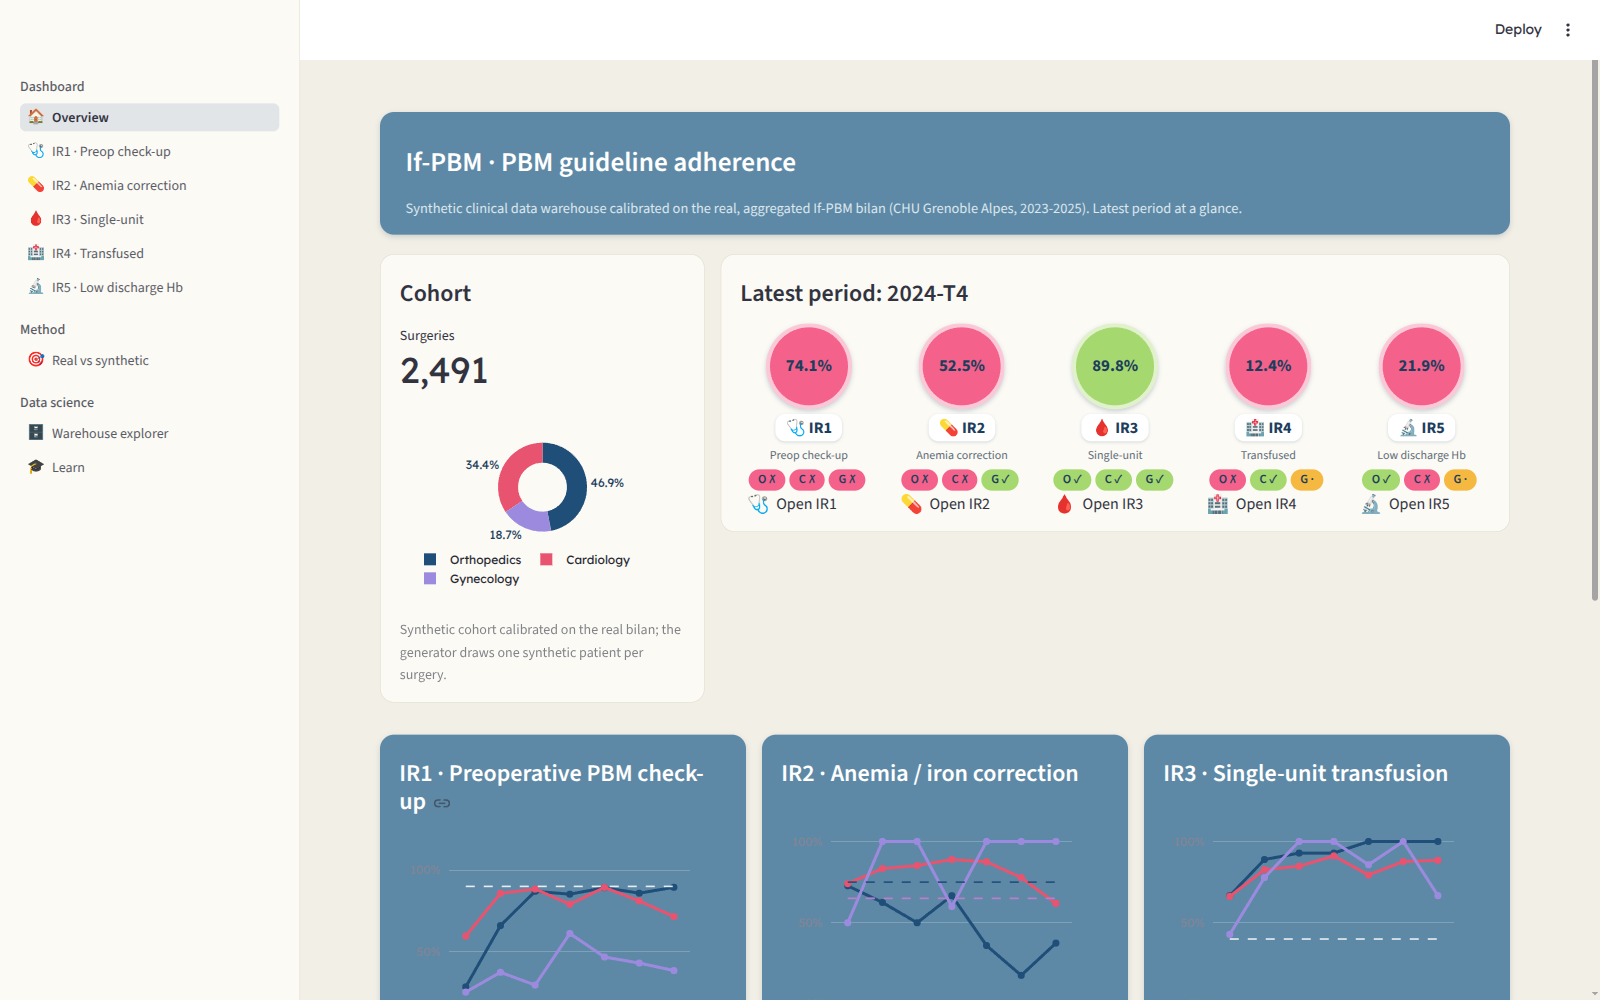
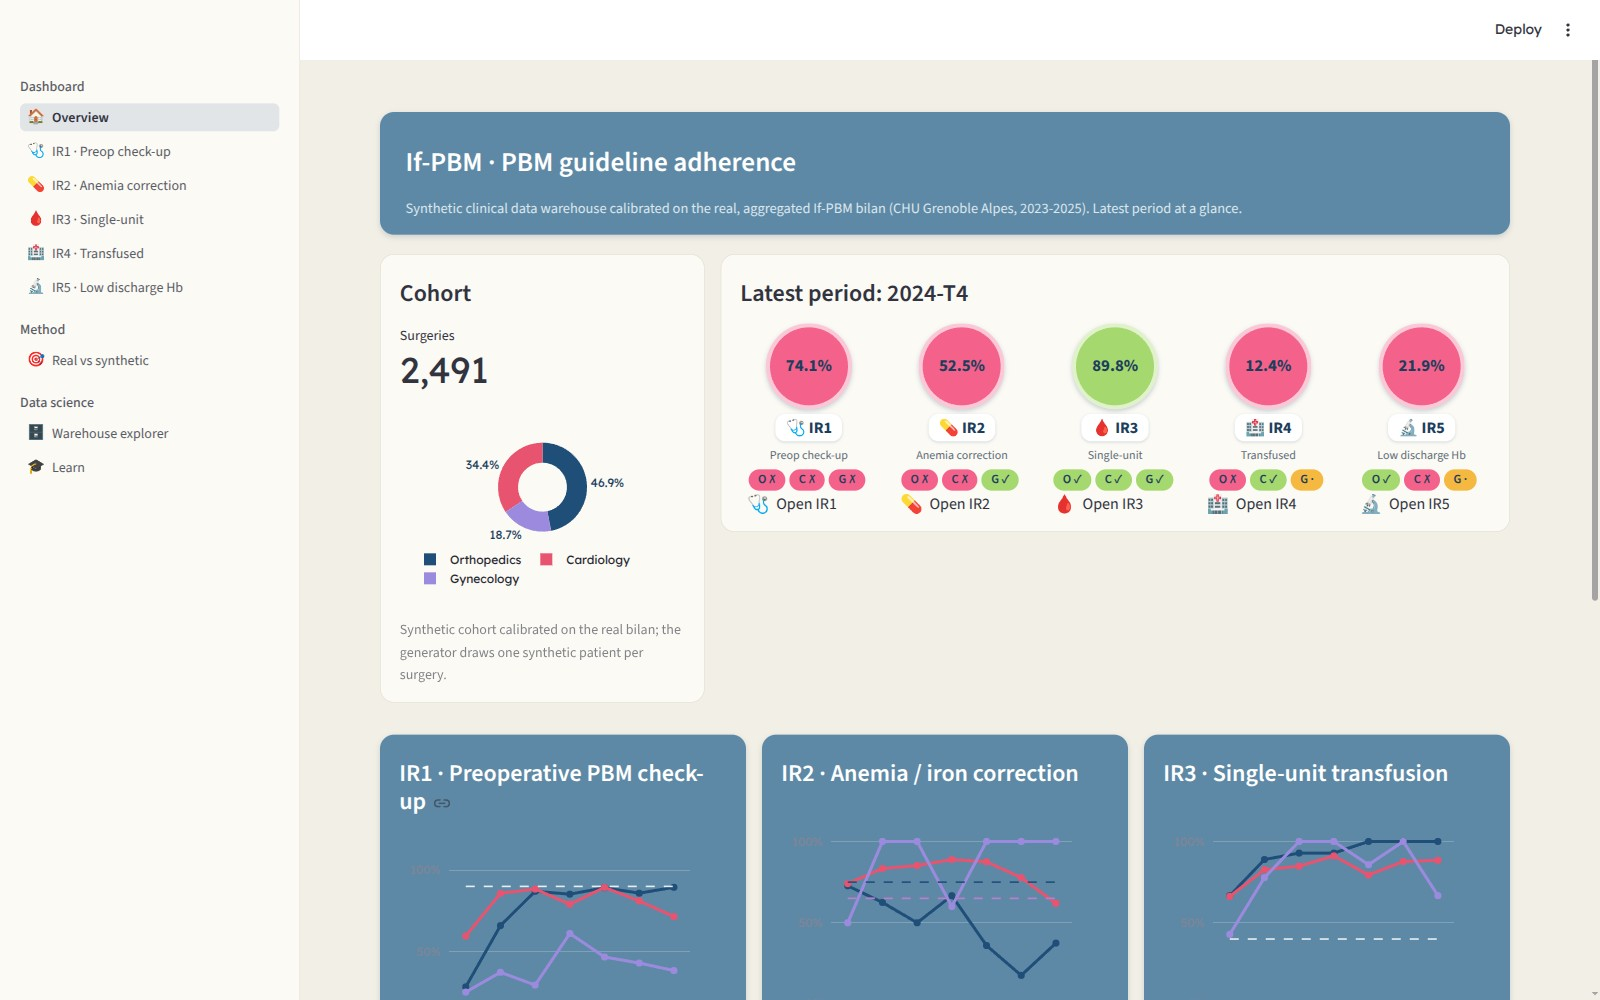
docs: present the platform; drop deprecated use_container_width
README, docs site and CLAUDE.md now describe the registry-driven
platform, the calibration page and the training track. Streamlit
calls migrate to width='stretch'.

diff --git a/src/if_pbm_open_demo/dashboard/views/indicator.py b/src/if_pbm_open_demo/dashboard/views/indicator.py
@@ -83,18 +83,14 @@ def make_page(indicator: Indicator) -> Callable[[], None]:
             st.markdown("#### Trend by trimester, with year-2 targets")
             fig = components.trend_figure(indicator, results, periods, specialties)
             fig.update_layout(height=380)
-            st.plotly_chart(
-                fig, use_container_width=True, config={"displayModeBar": False}
-            )
+            st.plotly_chart(fig, width="stretch", config={"displayModeBar": False})
 
         chart_col, def_col = st.columns([1.4, 1])
         with chart_col, st.container(key=f"panel-latest-{indicator.key}"):
             st.markdown(f"#### Latest period ({latest}) by specialty")
             bar = components.latest_bar_figure(indicator, results, latest, specialties)
             bar.update_layout(height=300)
-            st.plotly_chart(
-                bar, use_container_width=True, config={"displayModeBar": False}
-            )
+            st.plotly_chart(bar, width="stretch", config={"displayModeBar": False})
         with def_col:
             _definition_card(indicator)
 
@@ -105,7 +101,7 @@ def make_page(indicator: Indicator) -> Callable[[], None]:
             ]
             st.dataframe(
                 sub[["specialty", "period", "numerator", "denominator", "proportion"]],
-                use_container_width=True,
+                width="stretch",
                 hide_index=True,
             )
 

diff --git a/src/if_pbm_open_demo/dashboard/views/overview.py b/src/if_pbm_open_demo/dashboard/views/overview.py
@@ -36,9 +36,7 @@ def _cohort_card(cohort: pd.DataFrame) -> None:
             margin={"l": 0, "r": 0, "t": 10, "b": 0},
         )
         theme.style_card_figure(donut)
-        st.plotly_chart(
-            donut, use_container_width=True, config={"displayModeBar": False}
-        )
+        st.plotly_chart(donut, width="stretch", config={"displayModeBar": False})
         st.caption(
             "Synthetic cohort calibrated on the real bilan; the generator "
             "draws one synthetic patient per surgery."
@@ -88,7 +86,7 @@ def _kpi_row(results: pd.DataFrame, periods: list[str]) -> None:
                 st.page_link(
                     page_refs[indicator.key],
                     label=f"Open {indicator.key}",
-                    use_container_width=True,
+                    width="stretch",
                 )
 
 
@@ -102,9 +100,7 @@ def _trend_grid(results: pd.DataFrame, periods: list[str]) -> None:
                 st.markdown(f"#### {indicator.key} · {indicator.title}")
                 fig = components.trend_figure(indicator, results, periods, specialties)
                 fig.update_layout(height=260, showlegend=False)
-                st.plotly_chart(
-                    fig, use_container_width=True, config={"displayModeBar": False}
-                )
+                st.plotly_chart(fig, width="stretch", config={"displayModeBar": False})
 
 
 def render() -> None:

diff --git a/src/if_pbm_open_demo/dashboard/views/calibration.py b/src/if_pbm_open_demo/dashboard/views/calibration.py
@@ -100,9 +100,7 @@ def render() -> None:
         with tab, st.container(key=f"panel-calib-{indicator.key}"):
             st.markdown(f"#### {indicator.key} · {by_key(indicator.key).title}")
             fig = _comparison_figure(indicator.key, synthetic, real, periods)
-            st.plotly_chart(
-                fig, use_container_width=True, config={"displayModeBar": False}
-            )
+            st.plotly_chart(fig, width="stretch", config={"displayModeBar": False})
 
     st.markdown("")
     left, right = st.columns([1.2, 1])
@@ -111,7 +109,7 @@ def render() -> None:
         gaps = _gap_table(synthetic, real)
         st.dataframe(
             gaps.style.format({"mean abs. gap": "{:.1%}", "max abs. gap": "{:.1%}"}),
-            use_container_width=True,
+            width="stretch",
             hide_index=True,
         )
         st.caption(
@@ -128,7 +126,7 @@ def render() -> None:
         ]
         st.dataframe(
             annual.style.format("{:.1%}", na_rep="censored"),
-            use_container_width=True,
+            width="stretch",
         )
         st.caption(
             "Gynecology volumes are too small for quarterly reporting; the real "

diff --git a/src/if_pbm_open_demo/dashboard/views/explorer.py b/src/if_pbm_open_demo/dashboard/views/explorer.py
@@ -71,7 +71,7 @@ def render() -> None:
         table = st.selectbox("Table", list(_TABLE_BLURBS), key="explorer_table")
         st.dataframe(
             data.table_preview(path, table),
-            use_container_width=True,
+            width="stretch",
             hide_index=True,
         )
 
@@ -89,5 +89,5 @@ def render() -> None:
             except Exception as exc:  # noqa: BLE001 - surfaced to the learner
                 st.error(f"Query failed: {exc}")
             else:
-                st.dataframe(result, use_container_width=True, hide_index=True)
+                st.dataframe(result, width="stretch", hide_index=True)
                 st.caption(f"{len(result):,} rows")

diff --git a/README.md b/README.md
@@ -1,25 +1,40 @@
-# If-PBM Open Demo
+# If-PBM Open Platform
 
 ![CI](https://github.com/tomboulier/if-pbm-open-demo/actions/workflows/ci.yml/badge.svg)
 
-Reproducible, open-source demo of the **If-PBM** Patient Blood Management (PBM) monitoring
-method described in the MIE2026 short communication *"Monitoring adherence to PBM guidelines
-from clinical data warehouse: a case study"* (Beaudoin, Godon, Marquet, Boulier,
-Moreau-Gaudry, Grenoble Alpes University Hospital).
+Reproducible, open-source platform around the **If-PBM** Patient Blood Management (PBM)
+monitoring method described in the MIE2026 short communication *"Monitoring adherence to
+PBM guidelines from clinical data warehouse: a case study"* (Beaudoin, Godon, Marquet,
+Boulier, Moreau-Gaudry, Grenoble Alpes University Hospital).
 
-It generates **synthetic** clinical data, computes the **five If-PBM indicators (IR1-IR5)**
-across orthopedics, cardiology, and gynecology by trimester, and serves an interactive
-dashboard. No real patient data is involved.
+It generates a **synthetic** clinical data warehouse calibrated on the **real, aggregated
+If-PBM bilan**, computes the **five If-PBM indicators (IR1-IR5)** across orthopedics,
+cardiology, and gynecology by trimester, and serves three things on top:
+
+1. **Automatic dashboards**: every indicator page is generated from a single registry
+   (definition, year-2 targets per specialty, SQL), so adding an indicator means one SQL
+   file plus one registry entry.
+2. **A demonstration of the known-ground-truth claim**: a calibration page overlays the
+   official real aggregated values on the synthetic pipeline's results.
+3. **A data science training track**: progressive SQL exercises on the warehouse,
+   auto-validated against the ground truth, with hints and reference solutions.
+
+No real patient data is involved; only aggregated, source-censored values are shipped.
+
+![Platform overview](docs/img/platform-overview.png)
 
 ## What it shows
 
-| Indicator | Definition |
-|-----------|------------|
-| IR1 | Proportion of standardized PBM preoperative check-ups |
-| IR2 | Proportion of corrective treatments for anemia / iron deficiency |
-| IR3 | Proportion of single-unit transfusion episodes |
-| IR4 | Proportion of patients transfused per- or post-operatively |
-| IR5 | Proportion of patients discharged with low hemoglobin |
+| Indicator | Definition | Year-2 target |
+|-----------|------------|---------------|
+| IR1 | Standardized PBM preoperative check-ups | ≥ 90 % (all) |
+| IR2 | Corrective treatments for anemia / iron deficiency | ortho ≥ 75 %, cardio/gyneco ≥ 65 % |
+| IR3 | Single-unit transfusion episodes | ≥ 40 % (all) |
+| IR4 | Patients transfused per- or post-operatively | ortho ≤ 5 %, cardio ≤ 25 % |
+| IR5 | Patients discharged with low hemoglobin | ≤ 25 % (ortho/cardio) |
+
+(The official criterion is "reach the target OR improve by a set margin vs baseline";
+gynecology IR4/IR5 targets are split by procedure in the cahier des charges.)
 
 ## Architecture
 
@@ -30,11 +45,19 @@ The method is decoupled behind two stable seams (ports), so inputs and outputs a
  synthetic (here) ──▶ patient / surgery / ──▶ IR1..IR5 over     ──▶ indicator_results ─▶ Streamlit (here)
  real CDW (later)     transfusion / lab /      the canonical         (indicator x          Superset (later)
                       consultation             schema, in DuckDB     specialty x quarter)
+                            ▲                        ▲                      ▲
+                            │                        │                      │
+                      explorer / Learn          registry.py            calibration page
+                      (teaching surface)   (single source of truth:   (vs real_ir.csv, the
+                                            labels, targets, SQL)      real aggregated bilan)
 ```
 
 - **Input port** = the canonical schema. A real CDW adapter would simply produce conforming rows.
-- **Output port** = the `indicator_results` table. Any BI tool (Streamlit here, Superset for
-  D2H later) reads the same mart without touching the computation.
+- **Output port** = the `indicator_results` table. BI pages read only this mart; the
+  explorer and Learn pages deliberately expose the canonical tables, because the
+  warehouse itself is the teaching surface.
+- **Registry** (`registry.py`) = the single source of truth driving dashboard pages, KPI
+  status colours, target bands, and exercise validation.
 
 ## Install
 
@@ -50,7 +73,7 @@ uv sync
 
 ## Run
 
-One command generates data, computes indicators, and launches the dashboard:
+One command generates data, computes indicators, and launches the platform:
 
 ```bash
 uv run if-pbm-demo demo
@@ -61,11 +84,24 @@ Or step by step:
 ```bash
 uv run if-pbm-demo generate     # synthetic canonical data -> data/if_pbm.duckdb
 uv run if-pbm-demo indicators   # compute IR1-IR5 -> indicator_results mart
-uv run if-pbm-demo dashboard    # launch the Streamlit dashboard
+uv run if-pbm-demo dashboard    # launch the Streamlit platform
 ```
+
+## The training track
+
+The Learn page turns the known ground truth into a teaching device: because every
+indicator value of the synthetic warehouse is known by construction, a learner's SQL can
+be checked **exactly** (columns case-insensitively, row order ignored, floats within
+tolerance), with actionable feedback on mismatches. Five exercises, from counting the
+cohort to rebuilding the IR3 transfusion-episode logic with window functions.
+
+![Learn page](docs/img/platform-learn.jpg)
 
 ## Note on data
 
-All data is synthetic, generated from a seeded model with tunable per-specialty adherence
-trends (see `src/if_pbm_open_demo/generate.py`). It is designed to reproduce plausible,
-specialty-differentiated indicator trajectories, **not** to reflect real patients.
+- Patient-level data is **synthetic**, generated by a seeded, calibrated model
+  (`generate.py`): aggregating it reproduces the real bilan's count layer
+  (`data/targets.csv`, small counts censored at the source).
+- `data/real_ir.csv` ships the **real aggregated** official IR proportions (computed
+  upstream with the "eligible excluding Voiron" denominator) used by the calibration
+  page. Both CSVs are aggregated and GDPR-safe; the source bilan stays untracked.

diff --git a/CLAUDE.md b/CLAUDE.md
@@ -2,24 +2,39 @@
 
 ## Project
 
-Reproducible open-source demo of the If-PBM PBM monitoring method: synthetic data → five
-indicators (IR1-IR5) as DuckDB SQL → Streamlit dashboard. All data is synthetic.
+Reproducible open-source platform around the If-PBM PBM monitoring method: synthetic
+warehouse (calibrated on the real aggregated bilan) → five indicators (IR1-IR5) as
+DuckDB SQL → Streamlit platform (dashboards + calibration + training track). All
+patient-level data is synthetic; only aggregated, source-censored values are shipped.
 
-## Architecture (two seams)
+## Architecture (two seams + one registry)
 
 - **Input port** = canonical schema (patient, surgery, transfusion, lab, consultation).
   Indicators depend only on this schema, never on a specific source.
-- **Output port** = the `indicator_results` mart. The dashboard reads only the mart.
-- One adapter per side today (synthetic in, Streamlit out). Keep the seams clean so a
-  real-CDW input or a Superset output can be added without touching the domain.
+- **Output port** = the `indicator_results` mart. BI pages (overview, indicator pages)
+  read only the mart. Exception by design: the explorer and Learn pages read the
+  canonical tables, because the warehouse is their teaching surface.
+- **Registry** (`registry.py`) = single source of truth per indicator: labels,
+  definition, direction, year-2 targets per specialty, SQL file. Dashboard pages, KPI
+  status colours, target bands, and exercise validation derive from it. Adding an
+  indicator = one SQL file + one registry entry.
+- `reference.py` / `data/real_ir.csv` = real aggregated official IR values (denominator
+  "eligible excluding Voiron", censored at the source, NOT recomputable from
+  `targets.csv`). Extraction scripts in `scripts/` run offline against the untracked
+  `documentation/bilan_if_pbm_full.xlsx`.
+- `training.py` = Streamlit-free exercise engine (statements, hints, reference
+  solutions, result comparison). `dashboard/views/learn.py` is only rendering.
+- The Streamlit package is `dashboard/` with pages in `dashboard/views/`: do NOT name
+  that directory `pages/`, Streamlit auto-discovers any `pages/` dir next to the entry
+  script and breaks the navigation.
 
 ## Stack & commands
 
-Python 3.12, uv, DuckDB, pandas, Streamlit, plotly.
+Python 3.12, uv, DuckDB, pandas, Streamlit (st.navigation), plotly.
 
 ```bash
 uv sync --extra dev          # install
-uv run if-pbm-demo demo      # generate + compute + dashboard
+uv run if-pbm-demo demo      # generate + compute + platform
 uv run pytest                # tests
 uv run ruff check . && uv run ruff format --check . && uv run mypy src/
 ```
@@ -28,12 +43,16 @@ uv run ruff check . && uv run ruff format --check . && uv run mypy src/
 
 - Conventional Commits; imperative, English, ≤72 chars, no trailing period.
 - TDD: tests before implementation.
-- Type hints everywhere; numpydoc docstrings.
+- Type hints everywhere (mypy strict); numpydoc docstrings.
 - KISS, YAGNI, SOLID.
+- Visual identity in `dashboard/theme.py` only (mockup palette: cream page, blue-grey
+  panels, KPI discs coloured by target status); pages stay declarative.
 
 ## Do not
 
 - Refactor outside the scope of the task.
 - Add features that were not requested.
 - Write comments that merely restate the code.
-- Connect to or assume any real patient data; this project is synthetic-only.
+- Connect to or assume any real patient data; patient-level data is synthetic-only.
+- Re-censor or recompute the shipped real aggregated values: `real_ir.csv` is read
+  as published (censoring already applied upstream).

diff --git a/docs/index.md b/docs/index.md
@@ -1,10 +1,17 @@
-# If-PBM Open Demo
+# If-PBM Open Platform
 
-Reproducible, open-source demo of the If-PBM Patient Blood Management monitoring method
-(MIE2026 short communication, Grenoble Alpes University Hospital).
+Reproducible, open-source platform around the If-PBM Patient Blood Management
+monitoring method (MIE2026 short communication, Grenoble Alpes University Hospital).
 
-It generates synthetic clinical data, computes the five If-PBM indicators (IR1-IR5) by
-specialty and trimester, and serves an interactive dashboard. All data is synthetic.
+A synthetic clinical data warehouse, calibrated on the real aggregated If-PBM bilan,
+feeds three surfaces:
+
+- **Dashboards** generated automatically from the indicator registry (IR1-IR5 by
+  specialty and trimester, with the year-2 targets of the cahier des charges).
+- **Calibration**: the official real aggregated values overlaid on the synthetic
+  pipeline, making the known-ground-truth claim visible.
+- **Learn**: a self-correcting SQL training track on the warehouse, validated against
+  the ground truth.
 
 ## Quick start
 
@@ -26,5 +33,8 @@ if-pbm-demo demo
 ## Architecture
 
 The method is decoupled behind two seams: a canonical input schema and an
-`indicator_results` output mart, so data sources and dashboards are swappable. See the
-[README](https://github.com/tomboulier/if-pbm-open-demo) for details.
+`indicator_results` output mart, so data sources and dashboards are swappable. The
+indicator **registry** is the single source of truth for definitions, targets, and SQL;
+dashboards and exercise validation derive from it. See the
+[README](https://github.com/tomboulier/if-pbm-open-demo) and the
+[platform plan](platform-plan.md) for details.
